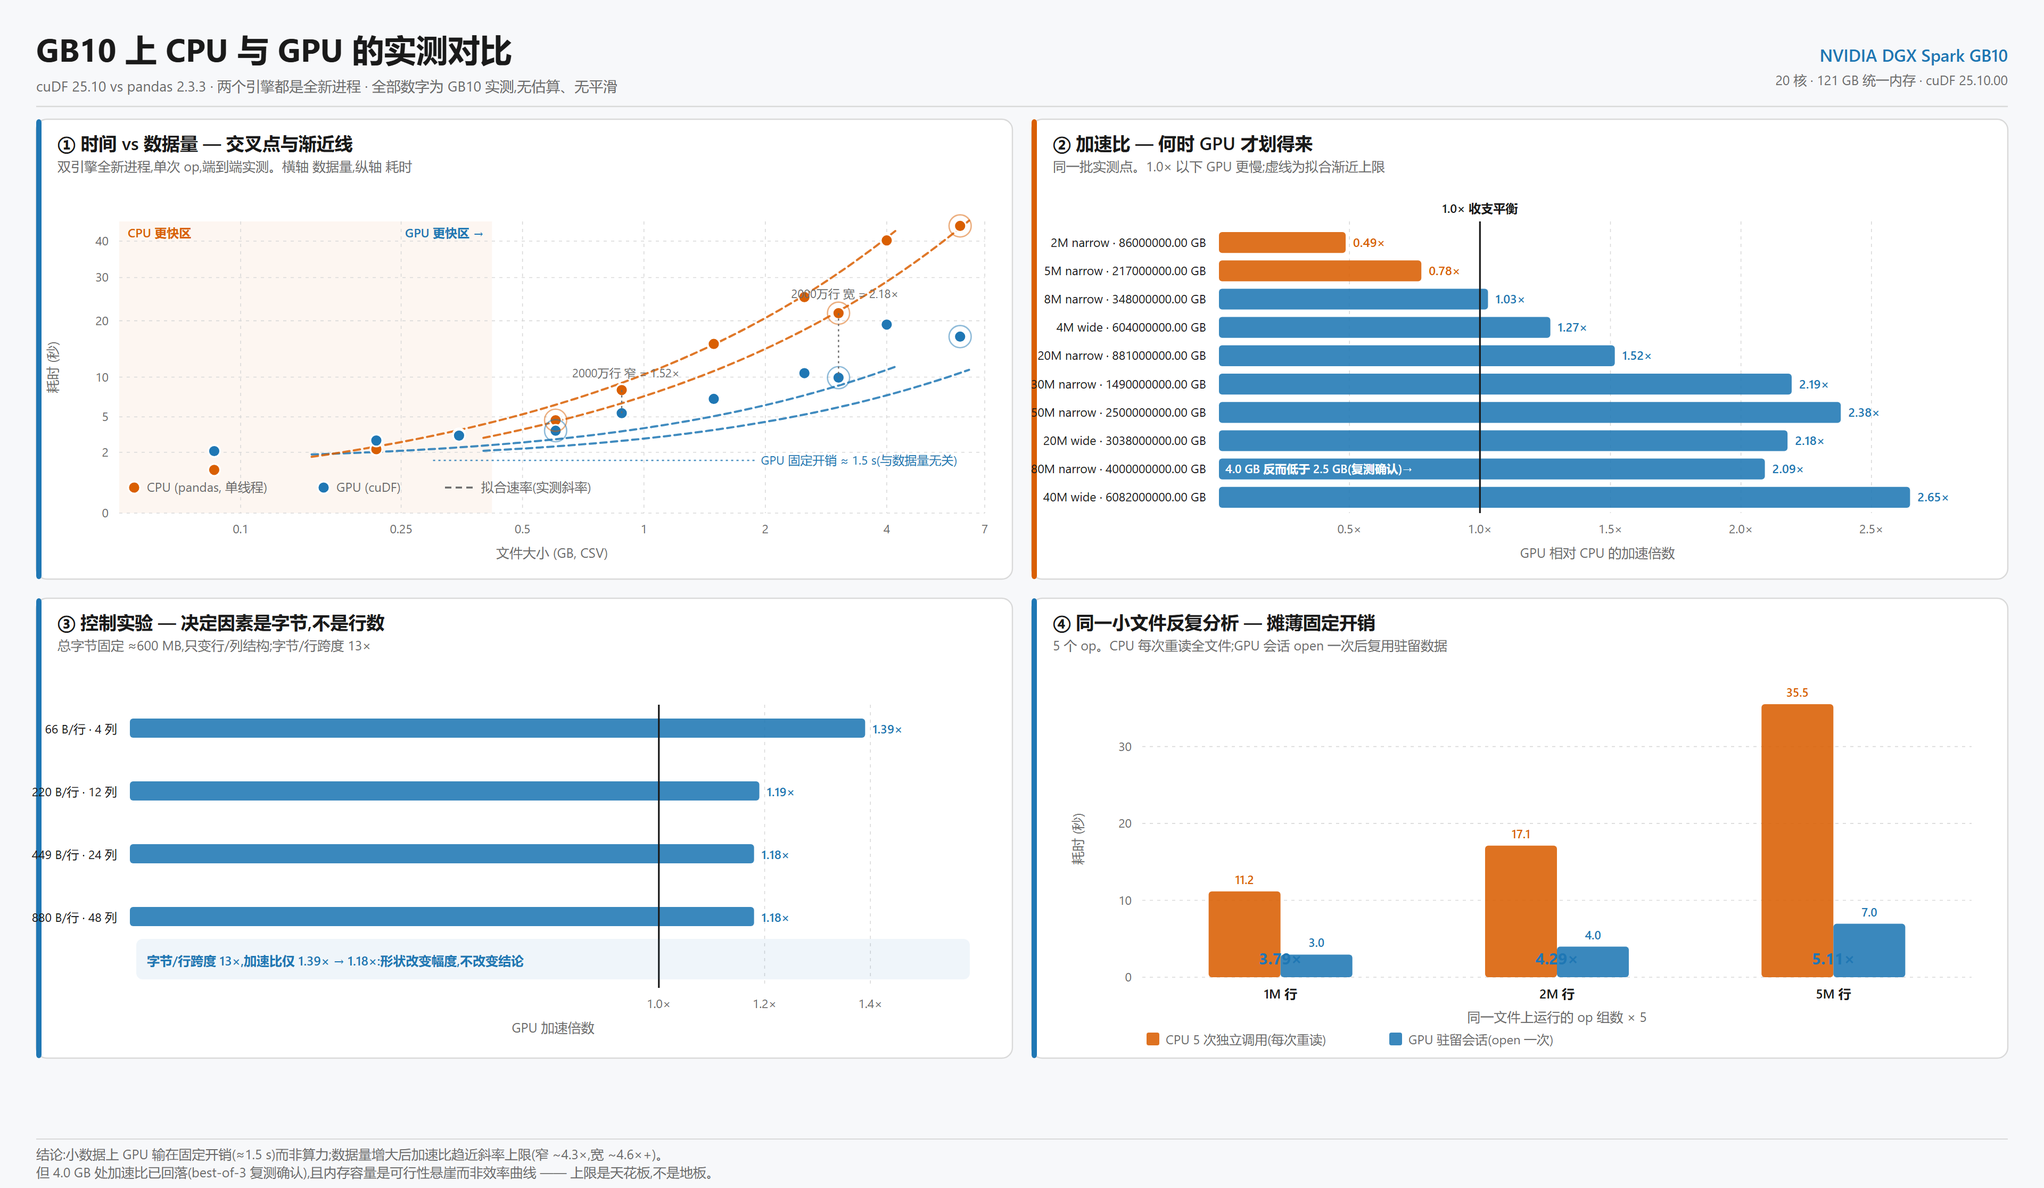
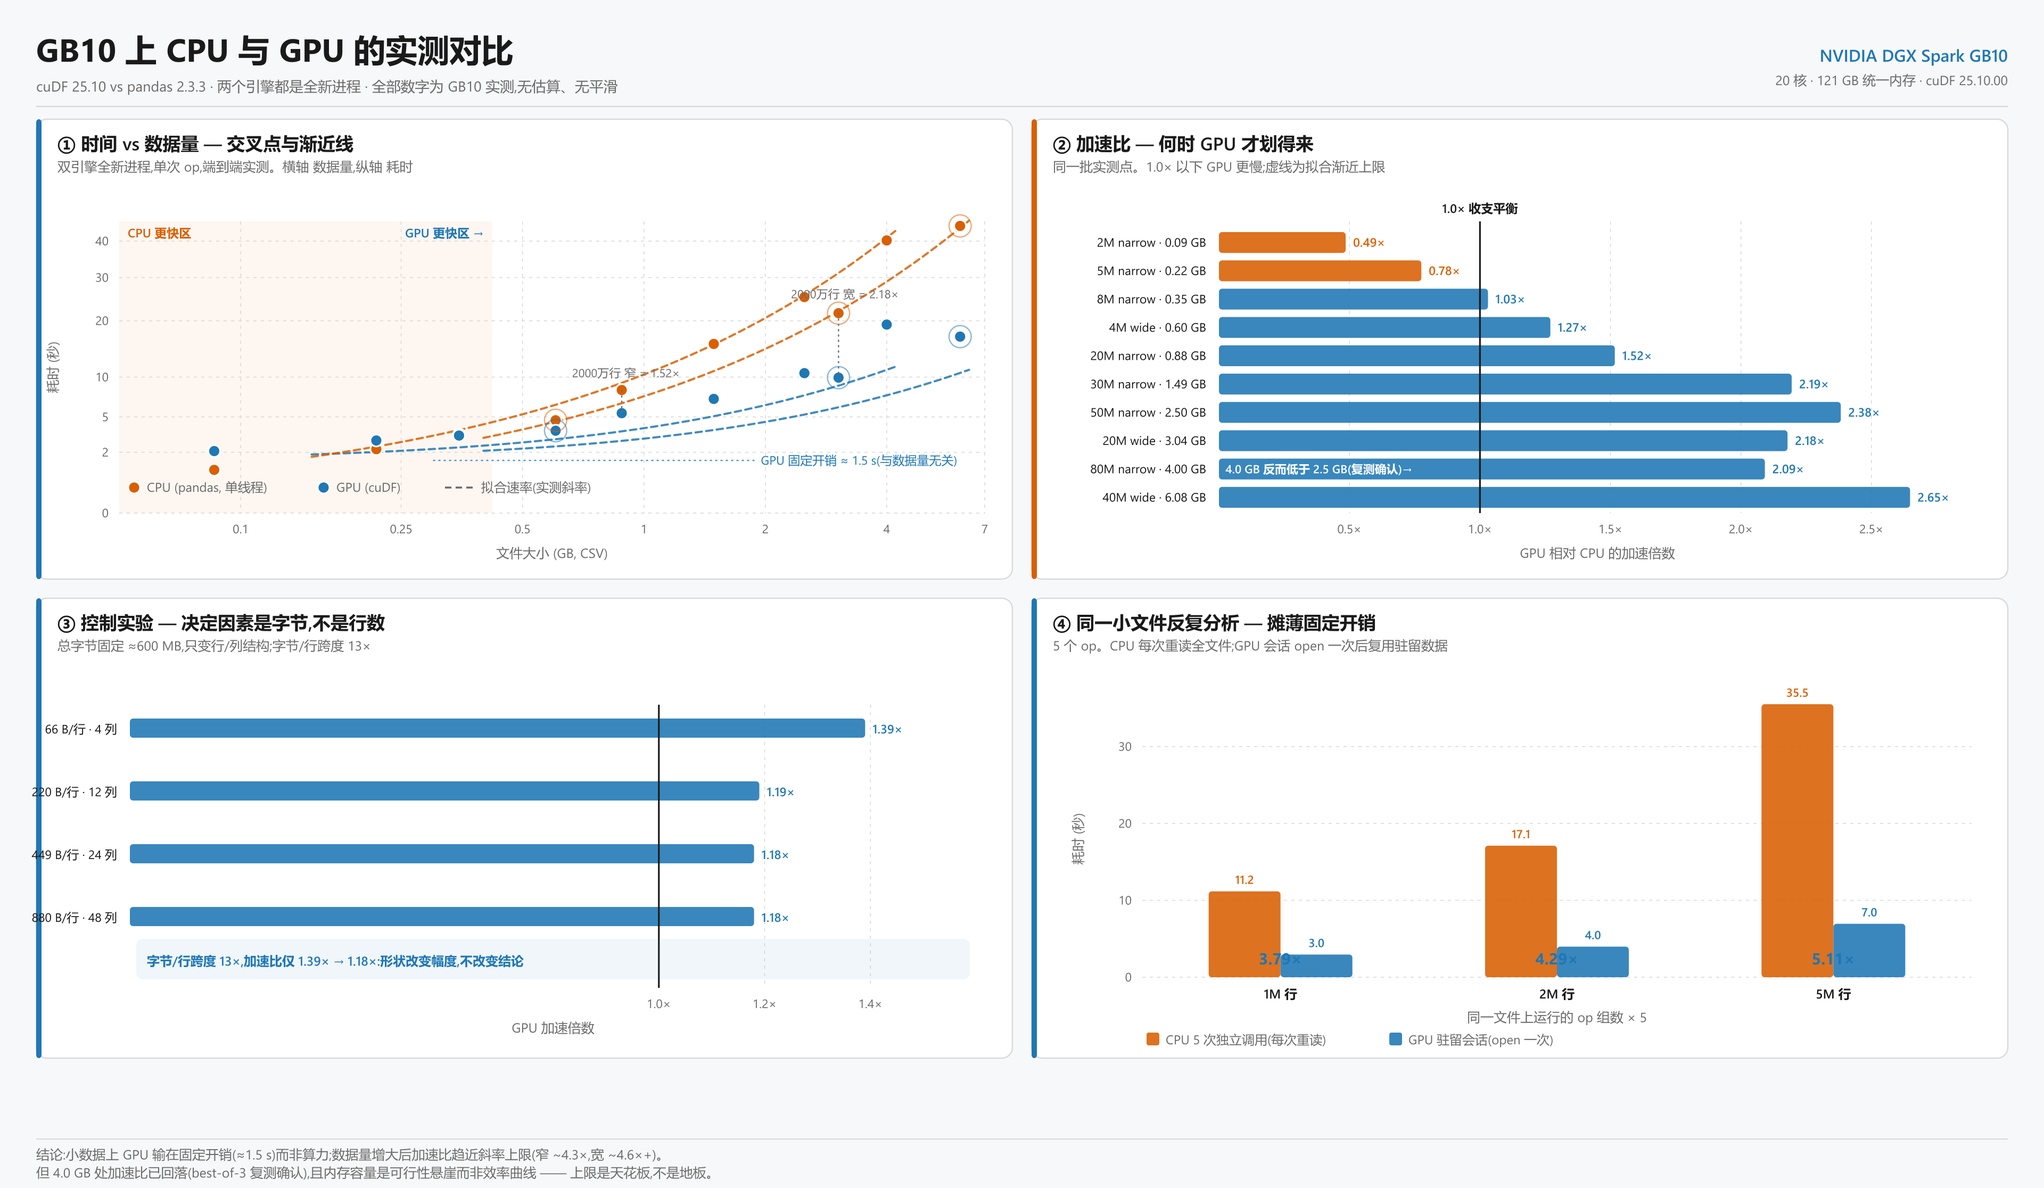
Fix tool contracts, CPU routing metadata and benchmark units

diff --git a/skills/cudf-analytics/scripts/smoke_test.py b/skills/cudf-analytics/scripts/smoke_test.py
@@ -98,6 +98,8 @@ def main() -> int:
     ap = argparse.ArgumentParser()
     ap.add_argument("--rows", type=int, default=20_000)
     ap.add_argument("--keep", action="store_true")
+    ap.add_argument("--require-gpu", action="store_true",
+                    help="fail if the explicit GPU parity check cannot run on cuDF")
     args = ap.parse_args()
 
     tmpdir = tempfile.mkdtemp(prefix="cudf-analytics-smoke-")
@@ -344,6 +346,14 @@ def main() -> int:
             check("routing: forcing the CPU overrides routing",
                   GA.pick_engine_for(tiny, "auto", force_cpu=True)[0] is False)
 
+            rc, routed, err = run(["--input", tiny, "--op", "profile"])
+            check("routing: a deliberate CPU choice completes", rc == 0, err[-120:])
+            check("routing: a deliberate CPU choice is explained",
+                  bool(routed.get("routing_reason")), str(routed.get("routing_reason"))[:80])
+            check("routing: a deliberate CPU choice is never reported as a fallback",
+                  routed.get("fallback_reason") is None,
+                  str(routed.get("fallback_reason"))[:80])
+
             # Density independence: the same row count in a much wider file must still be
             # judged by rows, not bytes.
             dense = os.path.join(tmpdir, "density_dense.csv")
@@ -402,15 +412,28 @@ def main() -> int:
         check("CPU path mean matches independent value",
               close(cpu_rev.get("mean"), truth["revenue_mean"]),
               f"got {cpu_rev.get('mean')} want {truth['revenue_mean']}")
-        if engine == "cudf":
-            check("GPU/CPU means agree", close(rev.get("mean"), cpu_rev.get("mean")),
-                  f"cudf={rev.get('mean')} pandas={cpu_rev.get('mean')}")
-            check("GPU/CPU medians agree", close(rev.get("median"), cpu_rev.get("median")),
-                  f"cudf={rev.get('median')} pandas={cpu_rev.get('median')}")
-            check("GPU/CPU max agree", close(rev.get("max"), cpu_rev.get("max")),
-                  f"cudf={rev.get('max')} pandas={cpu_rev.get('max')}")
+        check("forced CPU is a deliberate choice, not a fallback",
+              bool(cpu_out.get("routing_reason")) and cpu_out.get("fallback_reason") is None)
+        # The tiny fixture routes to CPU even on a healthy GPU host. Probe the actual GPU
+        # explicitly rather than treating that intentional decision as GPU unavailability.
+        code, gpu_out, err = run(["--input", csv, "--op", "summary", "--force-gpu"])
+        check("explicit GPU probe completes", code == 0, err.strip()[-400:])
+        if args.require_gpu:
+            check("GPU required: explicit probe runs on cuDF", gpu_out.get("engine") == "cudf",
+                  str(gpu_out.get("fallback_reason")))
+        if gpu_out.get("engine") == "cudf":
+            gpu_rev = ((gpu_out.get("summary") or {}).get("stats") or {}).get("revenue") or {}
+            check("explicit GPU probe reports acceleration", gpu_out.get("accelerated") is True)
+            check("GPU/CPU means agree", close(gpu_rev.get("mean"), cpu_rev.get("mean")),
+                  f"cudf={gpu_rev.get('mean')} pandas={cpu_rev.get('mean')}")
+            check("GPU/CPU medians agree", close(gpu_rev.get("median"), cpu_rev.get("median")),
+                  f"cudf={gpu_rev.get('median')} pandas={cpu_rev.get('median')}")
+            check("GPU/CPU max agree", close(gpu_rev.get("max"), cpu_rev.get("max")),
+                  f"cudf={gpu_rev.get('max')} pandas={cpu_rev.get('max')}")
         else:
-            print("       (skipped: no GPU here, nothing to cross-check)")
+            check("GPU unavailable is explained as a fallback",
+                  bool(gpu_out.get("fallback_reason")) and gpu_out.get("routing_reason") is None)
+            print(f"       (GPU cross-check skipped: {gpu_out.get('fallback_reason')})")
 
     finally:
         if not args.keep:

diff --git a/agent/skills.py b/agent/skills.py
@@ -171,6 +171,18 @@ skill_definitions = [
                                        "a plan for that goal and tracks progress after every "
                                        "step; recommended for multi-step requests.",
                     },
+                    "force_cpu": {
+                        "type": "boolean",
+                        "description": "optional when operation='open': force a CPU-backed "
+                                       "session. Default false; mainly useful for validation.",
+                    },
+                    "force_gpu": {
+                        "type": "boolean",
+                        "description": "optional when operation='open': open a resident GPU "
+                                       "session even when a one-off analysis would route to the "
+                                       "CPU. Use this only when several analyses will reuse the "
+                                       "same loaded data, so the GPU startup cost is amortised.",
+                    },
                 },
                 "required": ["operation"],
             },
@@ -246,17 +258,6 @@ skill_definitions = [
                         "description": "optional: force CPU (pandas) so the numbers can be "
                                        "compared against the GPU. Default false"
                     },
-                    "force_gpu": {
-                        "type": "boolean",
-                        "description": "optional: open a resident GPU session even for a small "
-                                       "file. Default false, because for a ONE-OFF analysis the "
-                                       "GPU is slower below ~6.5M rows (its startup cost is about "
-                                       "1.5s and does not shrink with the data). Set this only "
-                                       "when SEVERAL analyses will run over the same file: the "
-                                       "session pays that cost once and then reuses the loaded "
-                                       "data, while each stateless call re-reads the file. "
-                                       "Measured on 20M rows at 0.058-0.187s per step after open."
-                    }
                 },
                 "required": ["file_path", "operation"]
             }

diff --git a/agent/tool_contract_test.py b/agent/tool_contract_test.py
@@ -1,0 +1,48 @@
+#!/usr/bin/env python3
+"""Fast checks that the model-visible tool schemas match their implementations."""
+
+import inspect
+import os
+import sys
+
+sys.path.insert(0, os.path.dirname(os.path.abspath(__file__)))
+import skills  # noqa: E402
+
+
+FAILURES = []
+
+
+def check(label, condition, detail=""):
+    print(f"  [{'PASS' if condition else 'FAIL'}] {label}"
+          f"{'  <- ' + detail if detail and not condition else ''}")
+    if not condition:
+        FAILURES.append(label)
+
+
+definitions = {item["function"]["name"]: item["function"]
+               for item in skills.load_skill_definitions()}
+
+for name, definition in definitions.items():
+    implementation = skills.skill_func_map[name]
+    parameters = set(inspect.signature(implementation).parameters)
+    properties = set(definition.get("parameters", {}).get("properties", {}))
+    required = set(definition.get("parameters", {}).get("required", []))
+
+    unknown = sorted(properties - parameters)
+    check(f"{name}: every schema property is accepted by the function",
+          not unknown, f"unknown properties: {unknown}")
+    check(f"{name}: every required property exists in the schema",
+          required <= properties, f"missing properties: {sorted(required - properties)}")
+
+session_properties = set(definitions["dataset_session"]["parameters"]["properties"])
+analysis_properties = set(definitions["analyze_dataset"]["parameters"]["properties"])
+check("dataset_session exposes the force_gpu escape hatch", "force_gpu" in session_properties)
+check("dataset_session exposes force_cpu for validation", "force_cpu" in session_properties)
+check("analyze_dataset does not advertise the session-only force_gpu argument",
+      "force_gpu" not in analysis_properties)
+
+if FAILURES:
+    print(f"FAIL: {len(FAILURES)} tool-contract checks failed")
+    raise SystemExit(1)
+
+print("ALL TOOL CONTRACT CHECKS PASSED")

diff --git a/skills/cudf-analytics/scripts/gpu_analytics.py b/skills/cudf-analytics/scripts/gpu_analytics.py
@@ -1007,6 +1007,14 @@ def main(argv: Optional[Sequence[str]] = None) -> int:
         }), flush=True)
         return 3
 
+    # `used.reason` explains why detect_engine returned pandas. It is a fallback reason only
+    # when auto-routing had selected the GPU and the GPU was unavailable or failed. When
+    # `route_reason` is present, pandas was chosen deliberately, so surfacing `used.reason`
+    # as a fallback would violate the public contract and make a healthy decision look broken.
+    fallback_reason = fallback
+    if fallback_reason is None and not used.is_gpu and route_reason is None:
+        fallback_reason = used.reason
+
     result: Dict[str, Any] = {
         "ok": True,
         "op": args.op,
@@ -1016,7 +1024,7 @@ def main(argv: Optional[Sequence[str]] = None) -> int:
         "engine_version": used.version,
         "gpu": used.gpu_name or ("none (CPU run)" if not used.is_gpu else "CUDA device"),
         "accelerated": used.is_gpu,
-        "fallback_reason": fallback or (None if used.is_gpu else used.reason),
+        "fallback_reason": fallback_reason,
         "routing_reason": route_reason,
         "rows_scanned": rows,
         "op_seconds": round(elapsed, 6),

diff --git a/benchmark/make_chart.py b/benchmark/make_chart.py
@@ -250,7 +250,7 @@ def panel_b(s: Svg, x, y, w, h):
     for i, (lab, b, sp) in enumerate(data):
         cy = py + 10 + i * ((ph - 8) / len(data))
         col = GPU_C if sp >= 1.0 else CPU_C
-        s.text(px - 12, cy + bar_h / 2 + 4, f"{lab}  ·  {b:.2f} GB", size=11.5,
+        s.text(px - 12, cy + bar_h / 2 + 4, f"{lab}  ·  {b / 1e9:.2f} GB", size=11.5,
                fill=INK, anchor="end")
         s.rect(px, cy, max(X(sp) - px, 1.0), bar_h, fill=col, rx=3, op=0.88)
         s.text(X(sp) + 7, cy + bar_h / 2 + 4, f"{sp:.2f}×", size=11.5,

diff --git a/README.md b/README.md
@@ -77,9 +77,9 @@ file, during the run.
 | Criterion | What is implemented | Where to check it |
 | :--- | :--- | :--- |
 | Skill invocation: choosing the right tool and arguments unprompted | The model selects from four tools. Given no path it calls `list_datasets` first. A conceptual question invokes nothing. After a bad column name it calls `profile` to get the real names and retries. A multi-step request switches to the session tool and passes its `goal` to claim a plan. | `agent/run_criteria_tests.sh`, 11 cases. The assertions run against the tool-call trace rather than the prose of the answer. |
-| Task completion: natural language in, real results out | All six operations return real statistics. An answer carries conclusions, rankings, tables and key findings, and the run also writes report and chart files the user can keep. | `smoke_test.py`, 59 assertions. `verify_*.py` recomputes the numbers independently. |
+| Task completion: natural language in, real results out | All six operations return real statistics. An answer carries conclusions, rankings, tables and key findings, and the run also writes report and chart files the user can keep. | `smoke_test.py` (use the current runner output). `verify_*.py` recomputes the numbers independently. |
 | Innovation | A resident-memory session makes multi-step drill-down an order of magnitude cheaper; plans are system state rather than prompt text; deliverables are generated with no third-party dependency; the speedup is measured in the same conversation that reports it. | The scripted drill-down: 1.861 s in session against 37.933 s on CPU, 20.4x. |
-| Code usability: deployable, robust, survives bad input | The engine degrades to pandas on its own. No tool ever raises. A session is refused before loading when memory is short. A file that changed underneath a session is refused rather than answered from a stale snapshot. Two-column grouping fails with an explicit message. No GPU, a missing file and a bad column name are all handled gracefully. Memory is released in a `finally` block. | The no-GPU path runs on an ordinary machine. `plan_test.py`, 56 assertions, plus `session_*_test.py`, 41. |
+| Code usability: deployable, robust, survives bad input | The engine degrades to pandas on its own. No tool ever raises. A session is refused before loading when memory is short. A file that changed underneath a session is refused rather than answered from a stale snapshot. Two-column grouping fails with an explicit message. No GPU, a missing file and a bad column name are all handled gracefully. Memory is released in a `finally` block. | The no-GPU path runs on an ordinary machine. `tool_contract_test.py`, `plan_test.py` and the session tests cover the public contracts. |
 | Demo quality: a smooth end-to-end conversation | A scripted nine-stage demo runs in 176.8 s and shows the measured speedup at every stage, with the deliverables stage and the multi-step drill-down as its two peaks. `--prewarm` removes the first-query wait on stage. | `agent/demo_script.py`. |
 
 ### Where the innovation actually is
@@ -376,9 +376,10 @@ Sub_metering_1         169,105  169,105    OK    ties=1,880,175 (IQR=0)
 ### Running the tests yourself
 
 ```bash
-# test suites (the plan layer needs no GPU)
-python skills/cudf-analytics/scripts/plan_test.py            # 56 checks
-python skills/cudf-analytics/scripts/smoke_test.py           # 80 checks
+# test suites (the plan layer and tool-schema contract need no GPU)
+python agent/tool_contract_test.py
+python skills/cudf-analytics/scripts/plan_test.py
+python skills/cudf-analytics/scripts/smoke_test.py
 bash   agent/run_criteria_tests.sh                           # 11 judging-criteria cases
 bash   agent/run_stability_check.sh 3 <your-data.csv>        # reproducibility
 ```
@@ -463,6 +464,7 @@ agent/                              the agent application (the submission proper
   run_criteria_tests.sh             11 judging-criteria cases
   run_stability_check.sh            reproducibility: N runs, session hygiene and plan coverage
   gpu_vs_cpu_demo.py                side-by-side engine comparison
+  tool_contract_test.py             schema/function signature regression checks
   session_skill_test.py             session tool-layer assertions
   env_stepfun.sh                    key loading for non-interactive shells
   verify_*.py                       independent recomputation of the agent's numbers
@@ -480,8 +482,8 @@ skills/cudf-analytics/              the skill itself
     gpu_session.py                  resident session worker
     analysis_plan.py                plan catalog and progress bookkeeping (pure functions)
     make_deliverables.py            zero-dependency SVG charts and Markdown report
-    smoke_test.py                   59 self-checks plus GPU/CPU numeric agreement
-    plan_test.py                    56 plan-layer assertions
+    smoke_test.py                   self-checks plus GPU/CPU numeric agreement
+    plan_test.py                    plan-layer assertions
     session_worker_test.py          worker protocol and guard tests
     attribution_test.py             attribution of I/O against compute
     memory_ceiling_test.py          multi-scale stress test
@@ -524,12 +526,14 @@ error handling can all be verified on an ordinary machine.
 
 ```bash
 pip install -r requirements.txt
-python skills/cudf-analytics/scripts/smoke_test.py        # 80 checks
+python agent/tool_contract_test.py
+python skills/cudf-analytics/scripts/smoke_test.py
 python skills/cudf-analytics/scripts/gpu_analytics.py --input <any.csv> --op auto
 ```
 
-Expect `"accelerated": false` and a `fallback_reason` explaining that cuDF is unavailable. No
-speedup is claimed on this path.
+Expect `"accelerated": false`. A deliberate small-file CPU route carries `routing_reason` and
+no `fallback_reason`; a file routed to the GPU when cuDF is unavailable carries a
+`fallback_reason`. No speedup is claimed on either CPU path.
 
 ```bash
 export STEPFUN_API_KEY=<your key>
@@ -543,8 +547,9 @@ ssh -p <port> <user>@<host>
 source ~/.bashrc                        # provides STEPFUN_API_KEY
 conda activate rapids-cudf              # cuDF 25.10 / pandas 2.3.3 / Python 3.11
 
-# 1) skill self-check: 59 assertions including GPU/CPU numeric agreement
-cd skills/cudf-analytics && python scripts/smoke_test.py
+# 1) tool contract plus skill self-check, including GPU/CPU numeric agreement
+python agent/tool_contract_test.py
+cd skills/cudf-analytics && python scripts/smoke_test.py --require-gpu
 
 # 2) single agent question
 cd ../../agent && python agent_main.py --ask "analyze the outliers in /path/to/data.csv"
@@ -562,8 +567,8 @@ python ../skills/cudf-analytics/evals/run_evals.py
 # 6) reproducibility: the same question three times, checking hygiene and coverage
 bash run_stability_check.sh 3 "$DEMO_DATA"
 
-# 7) plan-layer unit tests (no GPU needed, 56 assertions)
-python skills/cudf-analytics/scripts/plan_test.py
+# 7) plan-layer unit tests (no GPU needed)
+python ../skills/cudf-analytics/scripts/plan_test.py
 ```
 
 `--prewarm` matters. On the first run of any given question the agent also runs it on CPU to
@@ -592,7 +597,7 @@ published skill missing any of them is rejected by the sync pipeline.
 | `SKILL.md` | `skills/cudf-analytics/SKILL.md` | present |
 | `skill-card.md` governance card | `skills/cudf-analytics/skill-card.md` | present, filled in section by section from the official Jinja template |
 | Tier-3 evaluation dataset | `skills/cudf-analytics/evals/evals.json` | present, 13 tasks in the official schema |
-| `BENCHMARK.md` evaluation report | — | not in the repository yet |
+| `BENCHMARK.md` evaluation report | `skills/cudf-analytics/BENCHMARK.md` | present |
 | `skill.oms.sig` detached signature | — | not applicable |
 | `references/` | `skills/cudf-analytics/references/engine-contract.md` | present |
 

diff --git a/skills/cudf-analytics/SKILL.md b/skills/cudf-analytics/SKILL.md
@@ -53,8 +53,8 @@ Trigger when the user wants **computed facts about a dataset**, and any of these
 **Language:** the skill is driven in English. Its flags, operation names, `--agg` syntax, JSON
 keys and trigger vocabulary are English throughout, and so are the example requests above.
 
-Do **not** trigger for: building charts, training models, querying a remote database,
-or any task where no tabular file is involved.
+Do **not** trigger for: drawing or editing a chart when no tabular dataset needs analysis,
+training models, querying a remote database, or any task where no tabular file is involved.
 
 ## Key concepts
 
@@ -278,8 +278,10 @@ python skills/cudf-analytics/scripts/smoke_test.py
 
 That runs every operation against ground truth computed independently in pandas and
 exits non-zero on any mismatch. On a GPU host it also checks that cuDF and pandas agree.
-Verified on GB10 (cuDF 25.10.00 / pandas 2.3.3): 80 checks pass on the current revision, with
-cuDF and pandas agreeing exactly on mean, median and max.
+On GB10 (cuDF 25.10.00 / pandas 2.3.3), use `--require-gpu` to require the explicit cuDF/pandas
+mean, median and max parity check. A small fixture's normal CPU route does not prove that a
+GPU is unavailable. The runner probes the GPU separately and reports an explained fallback
+when cuDF cannot run; `--require-gpu` makes that condition fail the suite.
 
 The count is deliberately tied to a revision rather than stated as a permanent fact. It has
 already drifted twice: assertions were added without updating this line, so the number here went
